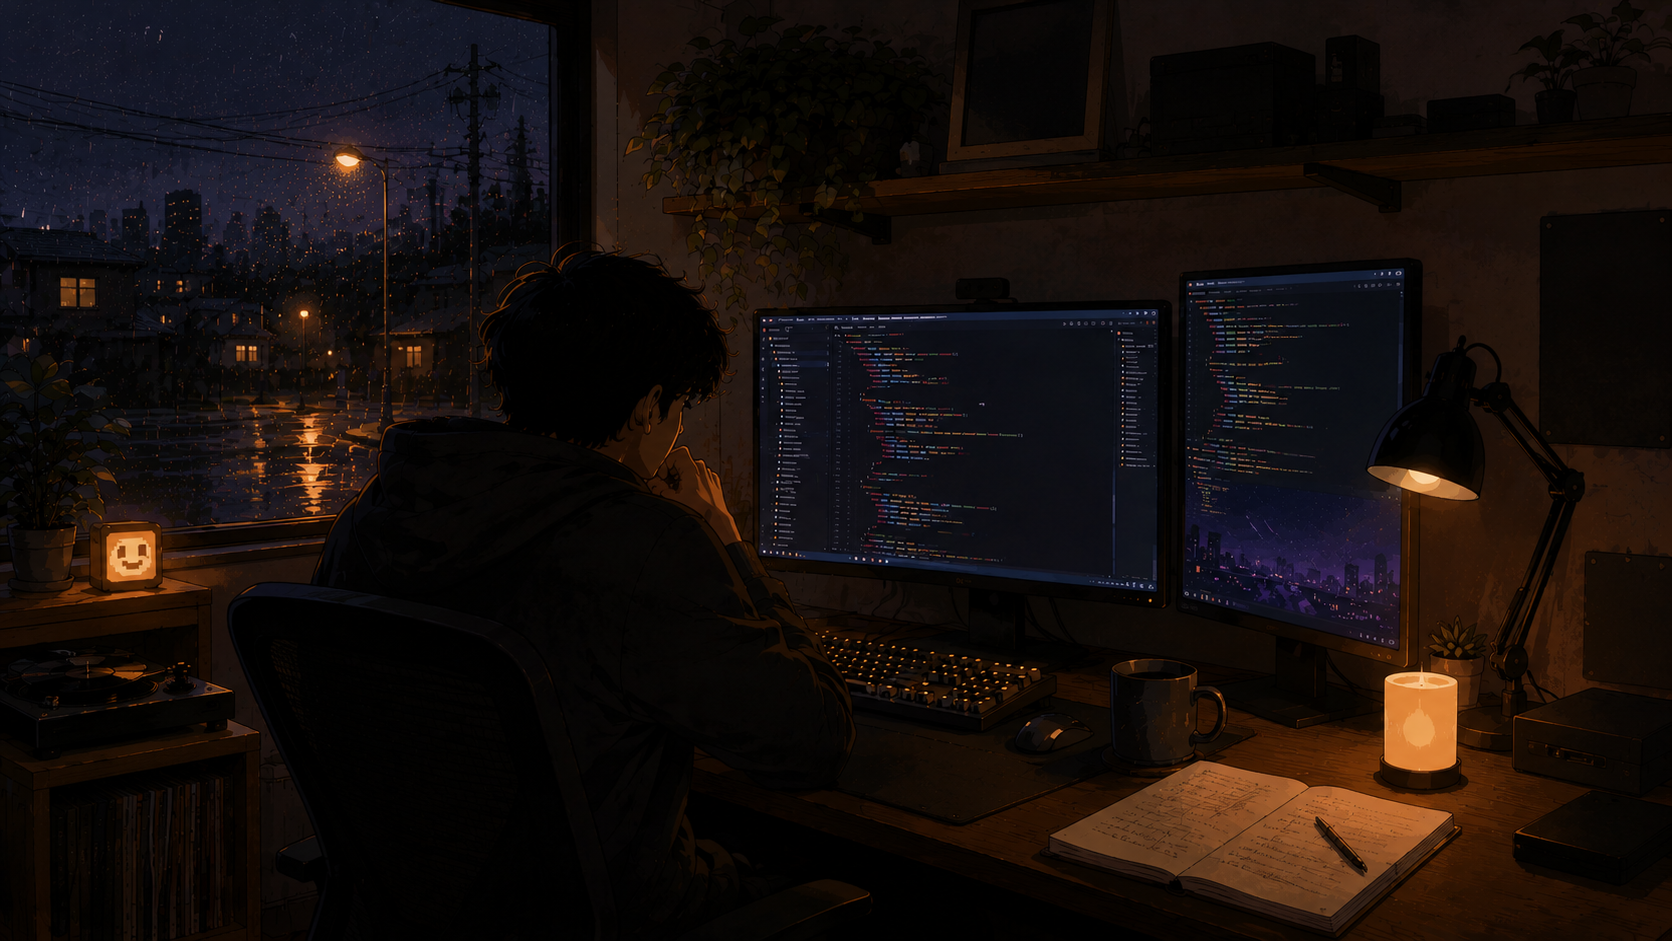
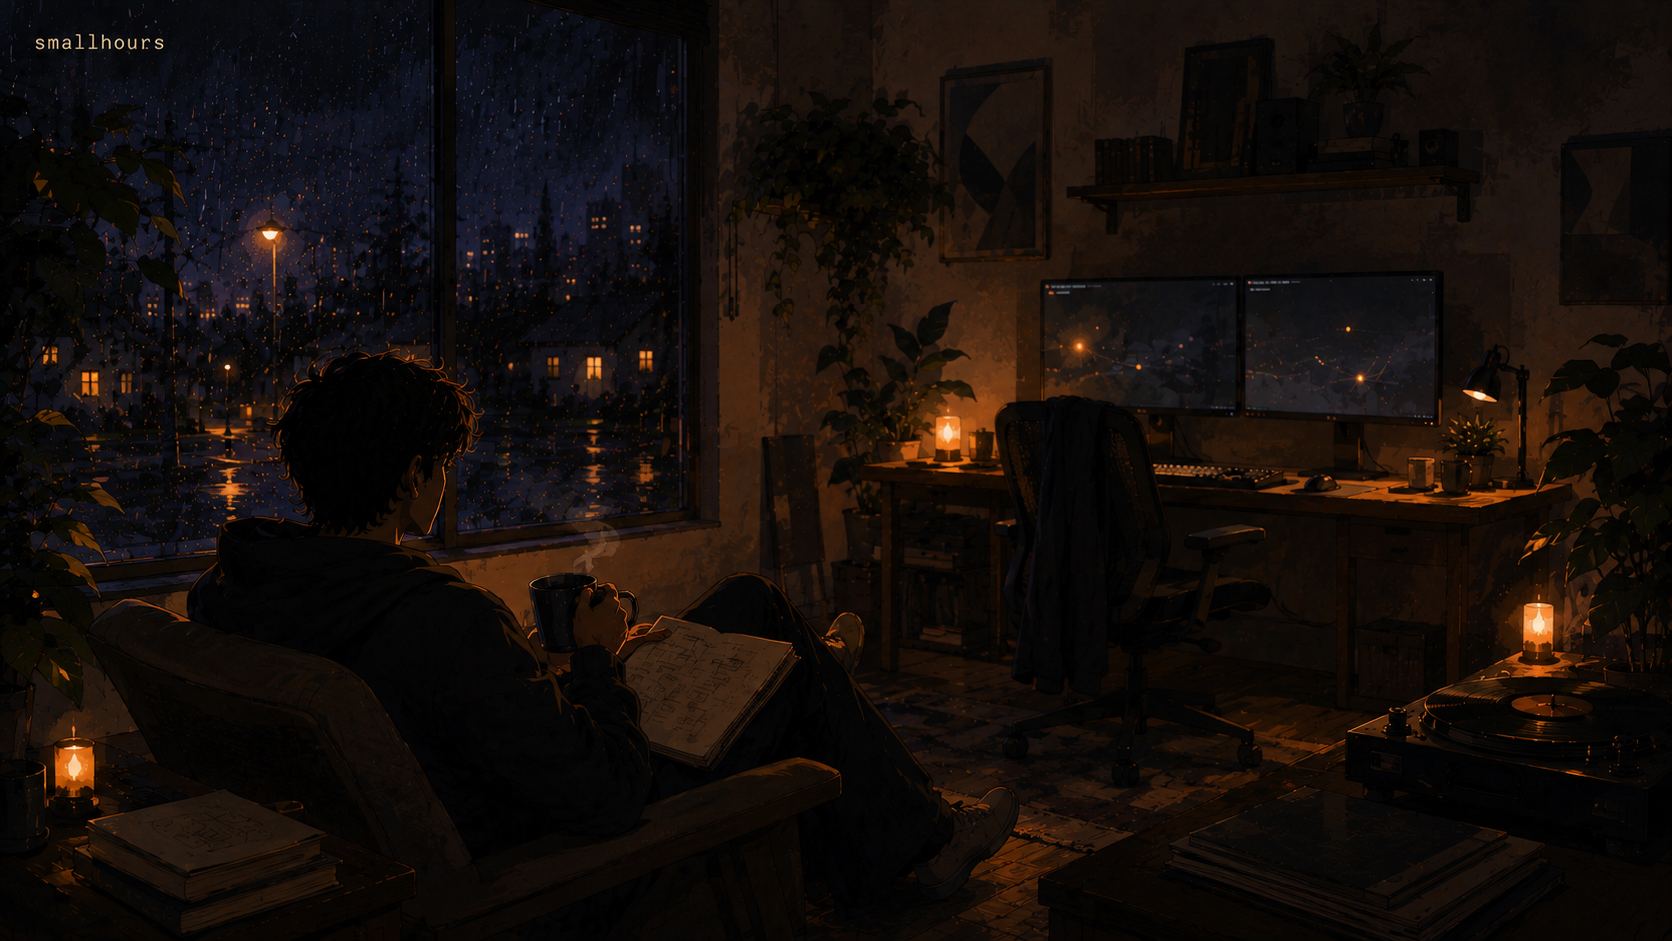
Update README content and hero image
Claude-Session: https://claude.ai/code/session_01DzS8XibBwfvXEXfcR1eMJX

diff --git a/README.md b/README.md
@@ -2,24 +2,32 @@
 
 # smallhours
 
-It does its best work while you're asleep.
+> The best ideas happen away from the keyboard.
 
-The whole job now: write good issues, review good PRs. Agents handle
-everything between.
+Software development shouldn't require constant supervision.
+
+Write good issues. Review good pull requests. Spend the rest of your time
+thinking, designing, or simply stepping away. Agents handle the implementation
+between those moments.
 
 ## The loop
 
-Fill the board with issues worth doing. Label what's ready:
-`ready-for-agent`.
+Fill the board with issues worth solving. Label what's ready:
 
-Leave.
+`ready-for-agent`
 
-Sandboxed agents work the queue inside your repo's CI, each issue on its
-own branch, each branch a draft PR, while you're off doing whatever you
-left to do. Red CI, they fix. Changes requested, they revise. Green, they
-wait.
+Then leave.
 
-You review. You merge. Issues close; branches disappear.
+Sandboxed agents continuously work the queue inside your repository's CI.
+Each issue becomes its own branch. Each branch becomes a draft pull request.
+
+If CI fails, they fix it.
+If changes are requested, they revise it.
+When everything is green, they wait.
+
+You come back to finished work—not an endless stream of notifications.
+
+Review. Merge. Repeat.
 
 ## The board
 
@@ -27,14 +35,20 @@ You review. You merge. Issues close; branches disappear.
 ready-for-agent → agent-working → in-review → closed
 ```
 
-One state label per issue, always. The board never lies.
+One state label per issue. The board always reflects reality.
 
-When an issue needs a person, it says so, `ready-for-human`, and the
-agents move on.
+If an issue requires human judgment, it's marked `ready-for-human`, and the
+agents continue with the next task.
 
 ## What stays yours
 
-The merge button. Always. Agents can't grant approvals.
+Architecture.
+
+Judgment.
+
+The merge button.
+
+Agents can build, iterate, and revise, but approval always belongs to you.
 
 ## Start
 
@@ -42,5 +56,5 @@ The merge button. Always. Agents can't grant approvals.
 setup/setup-repo.sh <owner/repo>
 ```
 
-[Getting started](docs/GETTING-STARTED.md) has the rest, including exactly
-how far the machine is trusted.
+See [Getting started](docs/GETTING-STARTED.md) for setup, trust boundaries,
+and how autonomous execution is kept contained.
